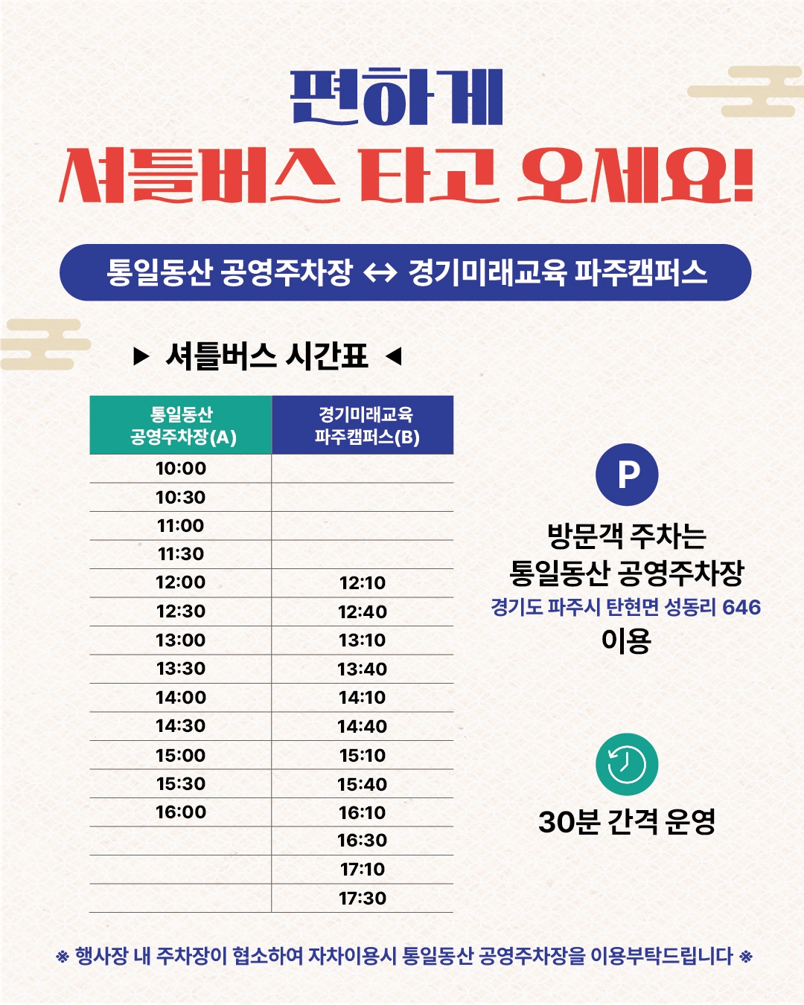
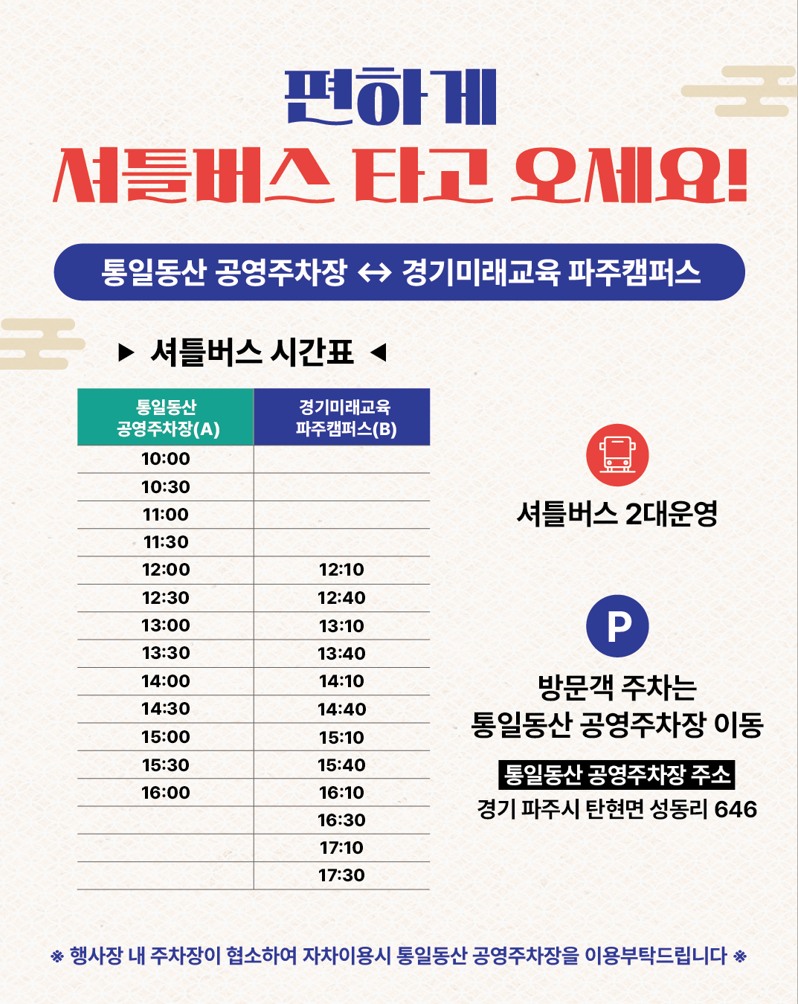
fix: 클라이언트 수정 요청사항 수행 - 이미지, 행사명, 행사정보, 그룹명 변경

diff --git a/src/data/experience-programs.ts b/src/data/experience-programs.ts
@@ -23,7 +23,7 @@ export const experiencePrograms: ExperienceProgram[] = [
   {
     title: "전통 부채 꾸미기",
     capacity: "1회 10명",
-    sessions: "총 14회",
+    sessions: "총 12회",
     category: "K-전통",
   },
   {
@@ -42,13 +42,13 @@ export const experiencePrograms: ExperienceProgram[] = [
   {
     title: "민화 팬시우드 공예 체험",
     capacity: "1회 10명",
-    sessions: "총 7회",
+    sessions: "총 6회",
     category: "K-전통",
   },
   {
     title: "한복키링 만들기",
     capacity: "1회 10명",
-    sessions: "총 7회",
+    sessions: "총 6회",
     category: "K-전통",
   },
   {
@@ -60,7 +60,7 @@ export const experiencePrograms: ExperienceProgram[] = [
   {
     title: "전통의상 체험",
     capacity: "1회 15명",
-    sessions: "총 17회",
+    sessions: "총 6회",
     category: "K-전통",
   },
   {
@@ -125,6 +125,20 @@ export const experiencePrograms: ExperienceProgram[] = [
     category: "K-문화",
   },
   {
+    title: "원어민과 함께하는 쿠킹클래스 Ⅰ",
+    capacity: "1회 20명",
+    sessions: "총 4회",
+    note: "사전 신청 준비중",
+    category: "K-문화",
+  },
+  {
+    title: "원어민과 함께하는 쿠킹클래스 Ⅱ",
+    capacity: "1회 50명",
+    sessions: "총 3회",
+    note: "사전 신청 준비중",
+    category: "K-문화",
+  },
+  {
     title: "키캡키링 만들기",
     capacity: "1회 10명",
     sessions: "총 14회",
@@ -134,7 +148,7 @@ export const experiencePrograms: ExperienceProgram[] = [
   {
     title: "매듭실 소원팔찌 만들기",
     capacity: "1회 10명",
-    sessions: "총 7회",
+    sessions: "총 6회",
     category: "K-공예",
   },
   {
@@ -157,7 +171,7 @@ export const experiencePrograms: ExperienceProgram[] = [
   },
   {
     title: "원어민과 함께하는 무궁화 스트링아트",
-    capacity: "1회 90명",
+    capacity: "1회 120명",
     sessions: "총 6회",
     category: "K-공예",
   },
@@ -196,20 +210,6 @@ export const experiencePrograms: ExperienceProgram[] = [
     capacity: "1회 10명",
     sessions: "상시 운영",
     imageUrl: "/assets/images/main/dalgona.png",
-    category: "K-간식",
-  },
-  {
-    title: "원어민과 함께하는 쿠킹클래스 Ⅰ",
-    capacity: "1회 20명",
-    sessions: "총 4회",
-    note: "사전 신청 준비중",
-    category: "K-간식",
-  },
-  {
-    title: "원어민과 함께하는 쿠킹클래스 Ⅱ",
-    capacity: "1회 50명",
-    sessions: "총 3회",
-    note: "사전 신청 준비중",
     category: "K-간식",
   },
 ];

diff --git a/src/constants/site.ts b/src/constants/site.ts
@@ -2,12 +2,12 @@ export const SITE_NAME = "2026 파주 K-컬처 페스티벌";
 export const SITE_HOME_TITLE = "2026 파주 케이컬처페스티벌";
 export const SITE_URL = "https://kculturepaju.com";
 export const SITE_DESCRIPTION =
-  "2026년 9월 12일 경기미래교육 파주캠퍼스 K-컬처 페스티벌 공식 웹사이트. 무대·체험 프로그램, 오시는 길, 셔틀버스 정보를 확인하세요.";
+  "2026년 9월 12일 경기미래교육파주캠퍼스 K-컬처 페스티벌 공식 웹사이트. 무대·체험 프로그램, 오시는 길, 셔틀버스 정보를 확인하세요.";
 
 export const FESTIVAL_START_DATE = "2026-09-12";
 
-export const VENUE_NAME = "경기미래교육 파주캠퍼스";
-export const VENUE_ADDRESS = "경기도 파주시 탄현면 얼음실로 40 경기미래교육 파주캠퍼스";
+export const VENUE_NAME = "경기미래교육파주캠퍼스";
+export const VENUE_ADDRESS = "경기도 파주시 탄현면 얼음실로 40 경기미래교육파주캠퍼스";
 export const VENUE_LAT = 37.784985;
 export const VENUE_LNG = 126.703487;
 
@@ -38,7 +38,7 @@ export const SITE_KEYWORDS = [
   "파주 축제",
   "파주 문화축제",
   "파주 행사",
-  "경기미래교육 파주캠퍼스",
+  "경기미래교육파주캠퍼스",
   "K-컬처",
   "파주 K-컬처 페스티벌",
   "축제 프로그램",

diff --git a/src/app/(site)/about/overview/page.tsx b/src/app/(site)/about/overview/page.tsx
@@ -18,7 +18,7 @@ export const metadata: Metadata = createPageMetadata({
 const info = [
   { label: "명칭", value: "K-컬처 페스티벌" },
   { label: "기간", value: "2026년 9월 12일(토)" },
-  { label: "장소", value: "경기미래교육 파주캠퍼스" },
+  { label: "장소", value: "경기미래교육파주캠퍼스" },
 ];
 
 export default function OverviewPage() {
@@ -70,7 +70,7 @@ export default function OverviewPage() {
               <h2 className="text-lg font-semibold">축제 소개</h2>
               <p className="leading-loose text-muted-foreground">
                 &apos;파주 K-컬처 페스티벌&apos;은 다양한 K-콘텐츠 촬영명소로
-                알려진 경기미래교육 파주캠퍼스(구 파주 영어마을)에서 진행하는
+                알려진 경기미래교육파주캠퍼스(구 파주 영어마을)에서 진행하는
                 K-컬처 종합문화예술축제입니다.
               </p>
               <p className="leading-loose text-muted-foreground">

diff --git a/src/app/(site)/venue/directions/page.tsx b/src/app/(site)/venue/directions/page.tsx
@@ -63,7 +63,7 @@ const subwayRoutes: Route[] = [
 const parkingText = [
   "파주 K-컬처 페스티벌 행사장 주차장이 협소하여 주차가 어려울 수 있습니다. 방문객께서는 인근 통일동산 주차장을 이용해 주시기 바랍니다.",
   "내비게이션에서 '통일동산 주차장'을 검색하시면 보다 쉽게 찾아오실 수 있습니다.",
-  "축제 기간 동안 '통일동산 주차장' ↔ '파주 K-컬처 페스티벌 행사장'(경기미래교육 파주캠퍼스)을 오가는 셔틀버스를 상시 운행합니다.",
+  "축제 기간 동안 '통일동산 주차장' ↔ '파주 K-컬처 페스티벌 행사장'(경기미래교육파주캠퍼스)을 오가는 셔틀버스를 상시 운행합니다.",
 ];
 
 const PARKING_ADDRESS = "경기도 파주시 탄현면 성동리 646(통일동산 공영주차장)";

diff --git a/src/data/extra-programs.ts b/src/data/extra-programs.ts
@@ -40,14 +40,14 @@ export const extraPrograms: ExtraProgram[] = [
     imageUrl: "/assets/images/extra/풍선삐에로.png",
   },
   {
-    title: "K-푸드 간식",
-    schedule: { type: "always" },
-    imageUrl: "/assets/images/extra/K푸드간식.png",
-  },
-  {
     title: "포토네컷",
     schedule: { type: "event", label: "이벤트" },
-    note: "스탬프 투어, 만족도 조사 참여 후 이용 가능",
+    note: "스탬프 체험, 만족도 조사 참여 후 이용 가능",
     imageUrl: "/assets/images/extra/인생네컷.png",
+  },
+  {
+    title: "스탬프 체험",
+    schedule: { type: "always" },
+    imageUrl: "/assets/images/extra/스탬프-체험.png",
   },
 ];

diff --git a/src/data/stage-programs.ts b/src/data/stage-programs.ts
@@ -34,7 +34,7 @@ export const stagePrograms: StageProgram[] = [
   {
     category: "특별공연",
     genre: "K-매직",
-    name: "김민형 마술사",
+    name: "마술사 김민형",
     image: `${IMAGE_BASE}/김민형.jpg`,
     imageWidth: 714,
     imageHeight: 1024,
@@ -42,7 +42,7 @@ export const stagePrograms: StageProgram[] = [
   {
     category: "공연",
     genre: "다국적 걸그룹",
-    name: "이리즈",
+    name: "Eris",
     image: `${IMAGE_BASE}/이리즈.jpg`,
     imageWidth: 1600,
     imageHeight: 900,

diff --git a/src/features/home/components/hero-section.tsx b/src/features/home/components/hero-section.tsx
@@ -104,7 +104,7 @@ export function HeroSection() {
             >
               <Button className="h-auto w-full gap-2.5 rounded-full bg-brand-vermillion px-7 py-4 text-lg font-bold text-brand-paper shadow-md shadow-brand-vermillion/25 sm:w-auto">
                 <MapPin className="size-5" />
-                경기미래교육 파주캠퍼스
+                경기미래교육파주캠퍼스
               </Button>
 
               <Button

diff --git a/src/features/home/components/main-stage-section.tsx b/src/features/home/components/main-stage-section.tsx
@@ -17,7 +17,7 @@ const SPECIAL_TONES: ArchTone[] = ["indigo", "vermillion", "jade"];
 const SPECIAL_IMAGES: Record<string, string> = {
   김태우: "/assets/images/main/김태우-메인.png",
   CLASSy: "/assets/images/main/클라씨-메인.png",
-  "김민형 마술사": "/assets/images/main/김민형-메인.png",
+  "마술사 김민형": "/assets/images/main/김민형-메인.png",
 };
 
 const specialLineup = stagePrograms
